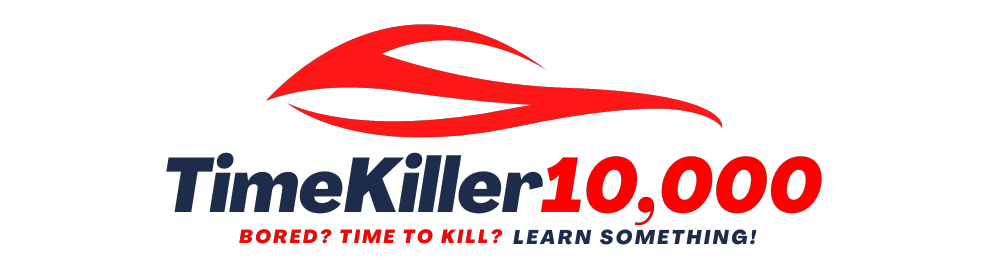
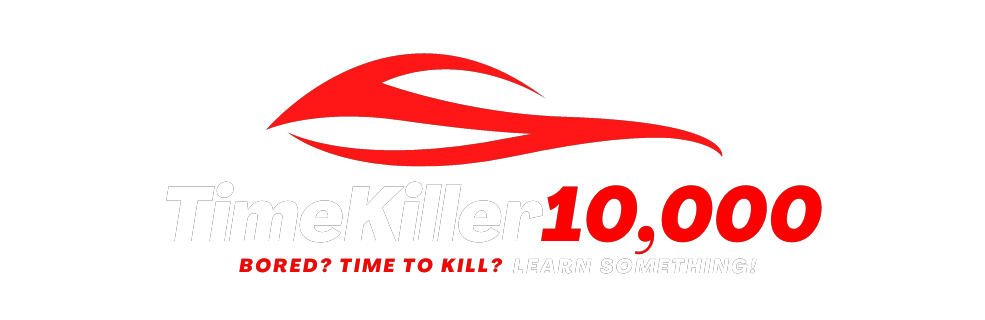
added styling to css

diff --git a/assets/style.css b/assets/style.css
@@ -1,10 +1,14 @@
+* {
+    background-color: rgb(0, 0, 0);
+}
+
 header {
     display: flex;
     justify-content: center;
     align-items: center;
     height: 250px;
     margin-bottom: 50px;
-    border: solid 5px black;
+    border: solid 1px rgb(255, 255, 255);
 }
 
 .logo {
@@ -14,32 +18,92 @@ header {
 .logo img {
     max-height: 100%;
 }
-#input {
-margin-bottom: 20px;
-width: 40%;
+
+button {
+    font-size: 10px;
+    font-family: 'Trebuchet MS', 'Lucida Sans Unicode', 'Lucida Grande', 'Lucida Sans', Arial, sans-serif;
+    font-weight: bold;
+    padding: 5px;
+    width: 60px;
+    text-align: center;
+    border: 3px solid #fa3e0f;
+    border-radius: 10px;
+    color: #fa3e0f;
+    font-style: italic;
+    background-color: rgb(0, 0, 0);
 }
+
+button:hover {
+    cursor: pointer;
+    box-shadow: 0rem 0.6rem 0.6rem 0.4rem #fa3e0f;
+    transform: translateY(-0.1rem);
+    transition: transform 150ms;
+}
+
+#input {
+    margin-bottom: 20px;
+    width: 40%;
+    border: 1px solid #ffffff;
+    color: #fa3e0f;
+}
+
 #sidebar {
     float: left;
     width: 25%;
-    border: solid 5px black;
+    border: solid 1px rgb(255, 255, 255);
+    color: #fa3e0f;
 }
 
-.wiki-results, .youtube-results  {
+.categories a {
+    color: #ffffff;
+}
+
+.categories a:hover {
+    color: red;
+    text-decoration: underline;
+}
+
+.wiki-results a {
     float: left;
     display: flex;
     flex-flow: column;
-    width: 40%;
-    border: solid 5px black;
+    width: 60%;
+    border: solid 1px rgb(172, 16, 16);
     margin: 10px 10px 10px 10px;
     padding: 10px;
+    color: #ffffff;
 }
+
+.wiki-results a:hover {
+    color: red;
+    text-decoration: underline;
+}
+
+.video-results a {
+    float: left;
+    display: flex;
+    flex-flow: column;
+    width: 60%;
+    border: solid 1px rgb(255, 255, 255);
+    margin: 10px 10px 10px 10px;
+    padding: 10px;
+    color: #ffffff;
+}
+
+.video-results a:hover {
+    color: red;
+    text-decoration: underline;
+}
+
 @media (max-width: 600px) {
     header {
-        height: 150px; /* Adjust the height as needed */
+        height: 150px;
+        /* Adjust the height as needed */
     }
 
     .logo img {
-        max-height: 80px; /* Adjust the logo size for mobile */
+        max-height: 100px;
+        /* Adjust the logo size for mobile */
     }
 
     #input {

diff --git a/index.html b/index.html
@@ -17,7 +17,7 @@
     </header>
 
     <div id="search-container">
-        <input type="text" id="input">
+        <input type="text" id="input" placeholder="Ready To Learn Something?">
         <button id="searchBtn">Search</button>
     </div>
     <main>
@@ -38,8 +38,8 @@
         <div class="content-container">
             <div class="wiki-results" id="wiki-parent">
             </div>
-                    
-            <div class="youtube-results">
+
+            <div class="youtube-results" id="">
                 <div id="video-results-1">video 1</div>
                 <div id="video-results-2">video 2</div>
                 <div id="video-results-3">video 3</div>
